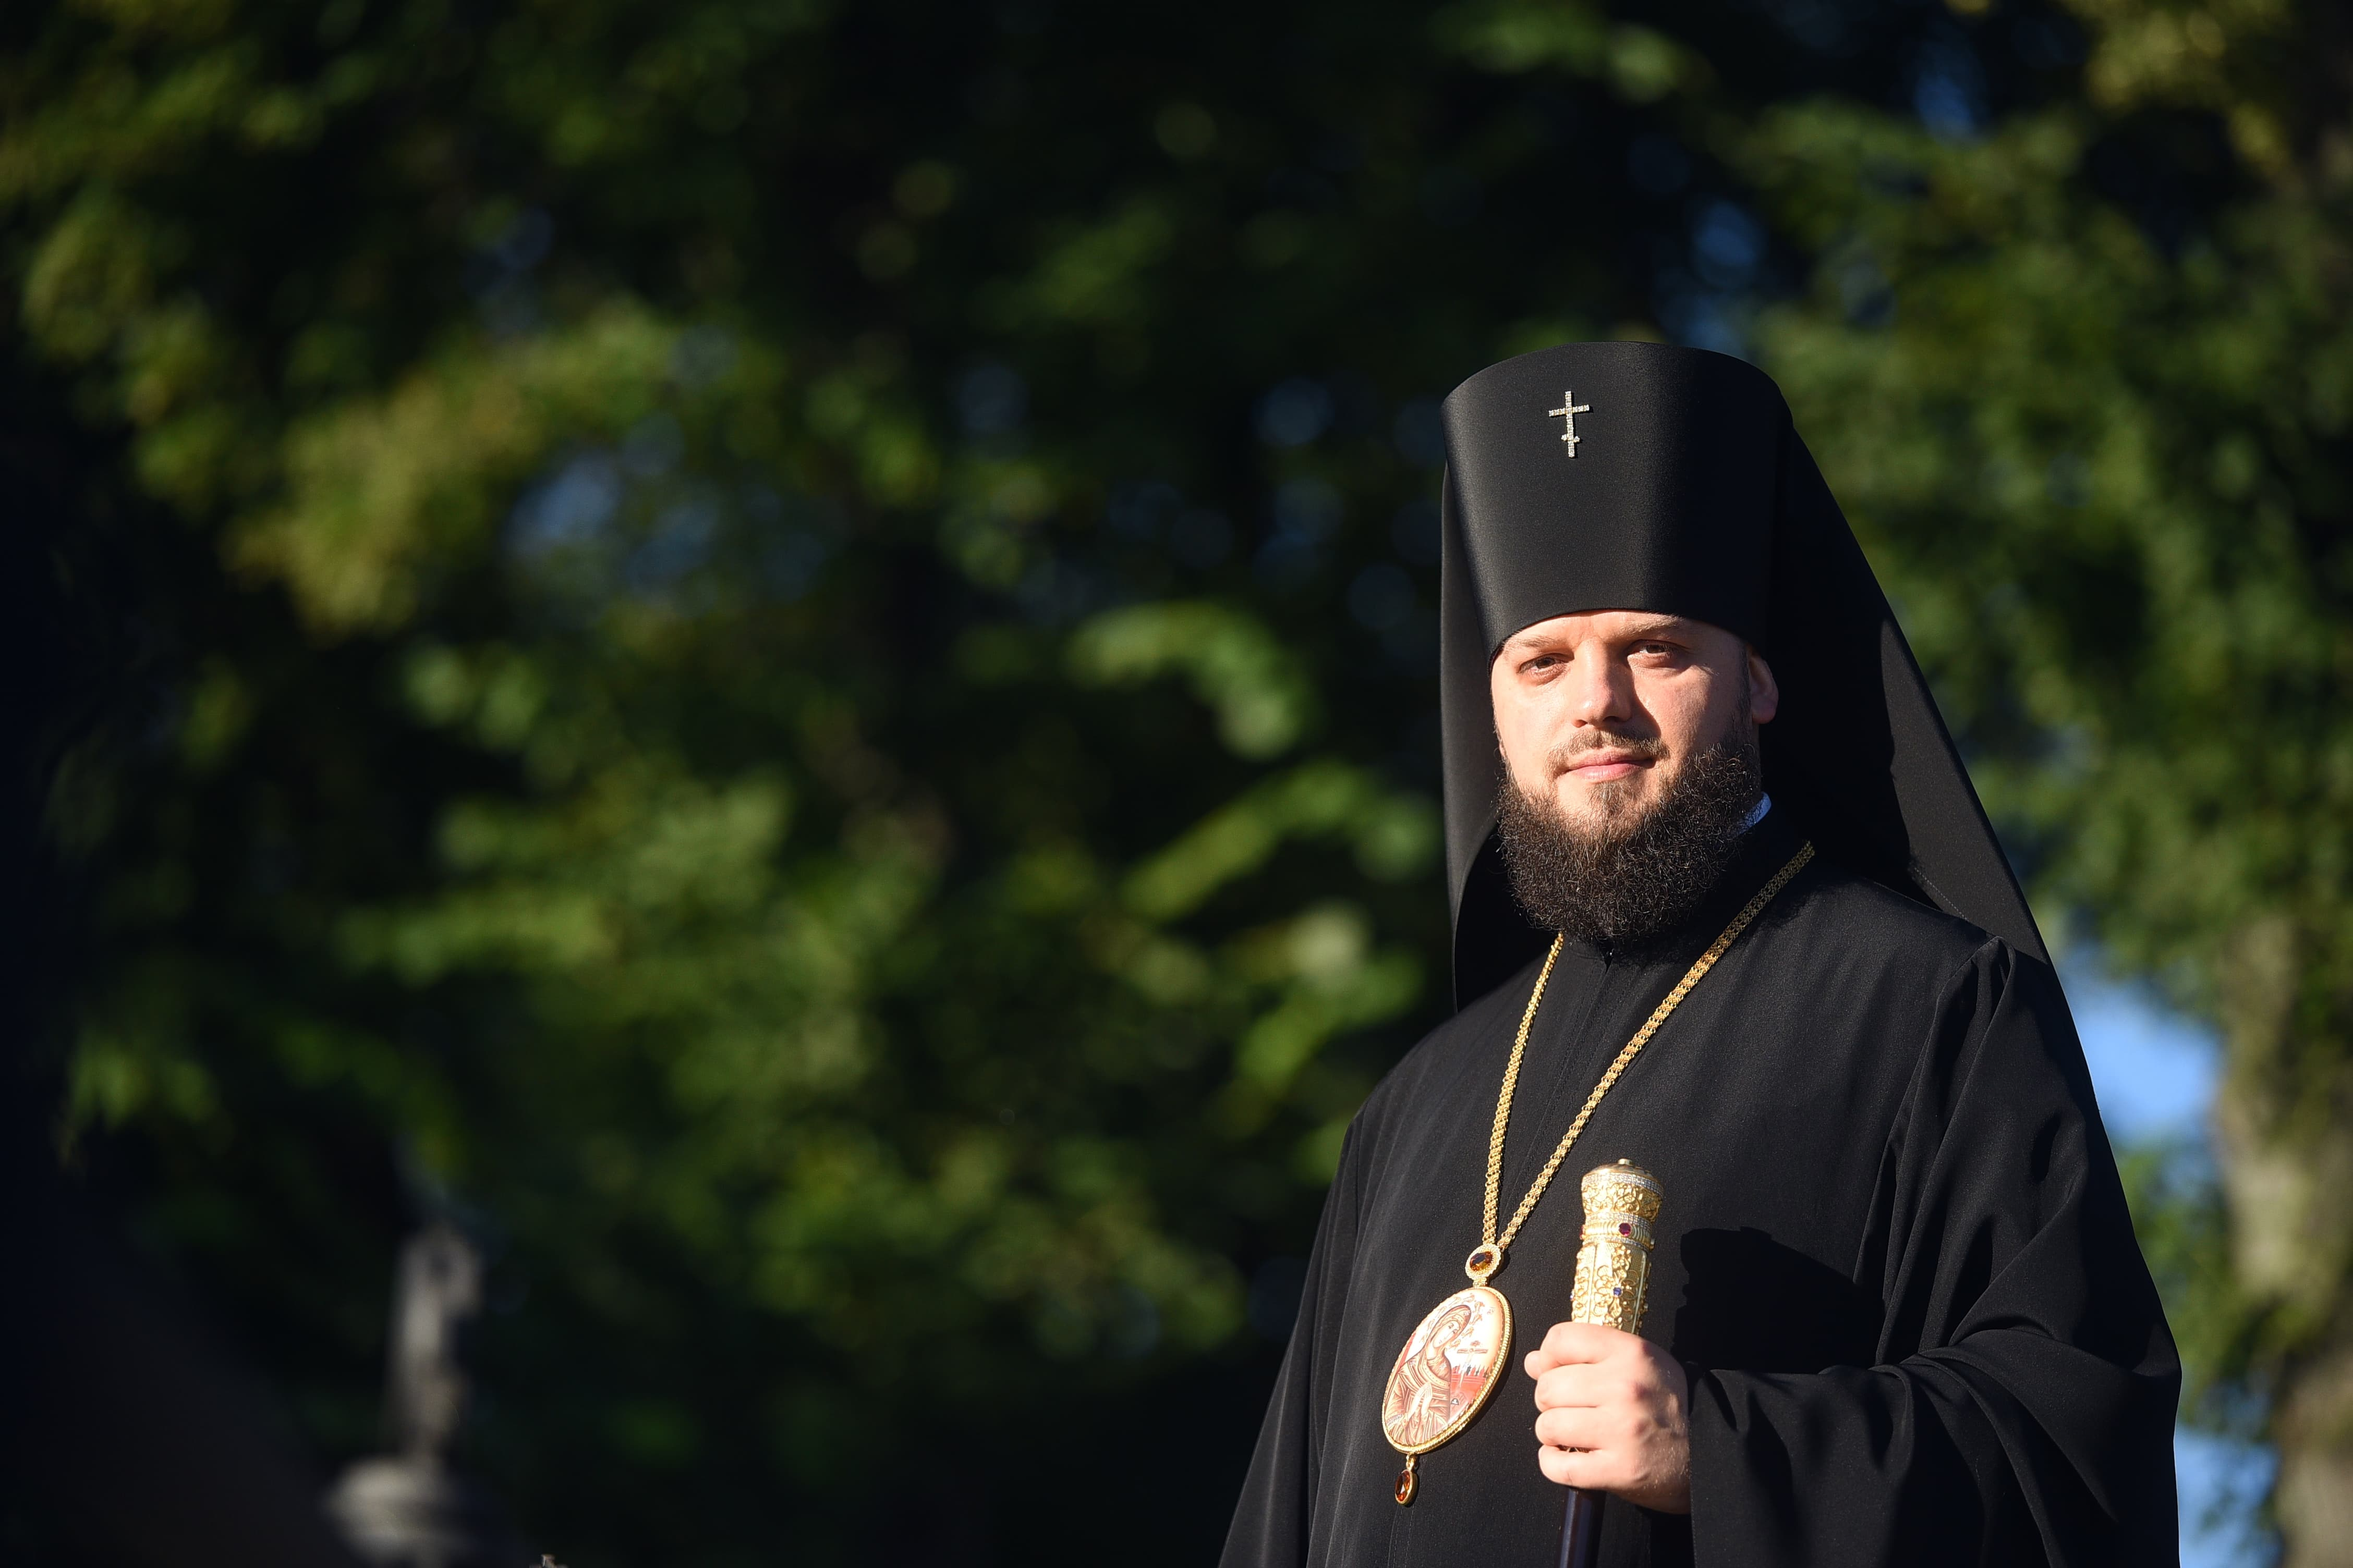
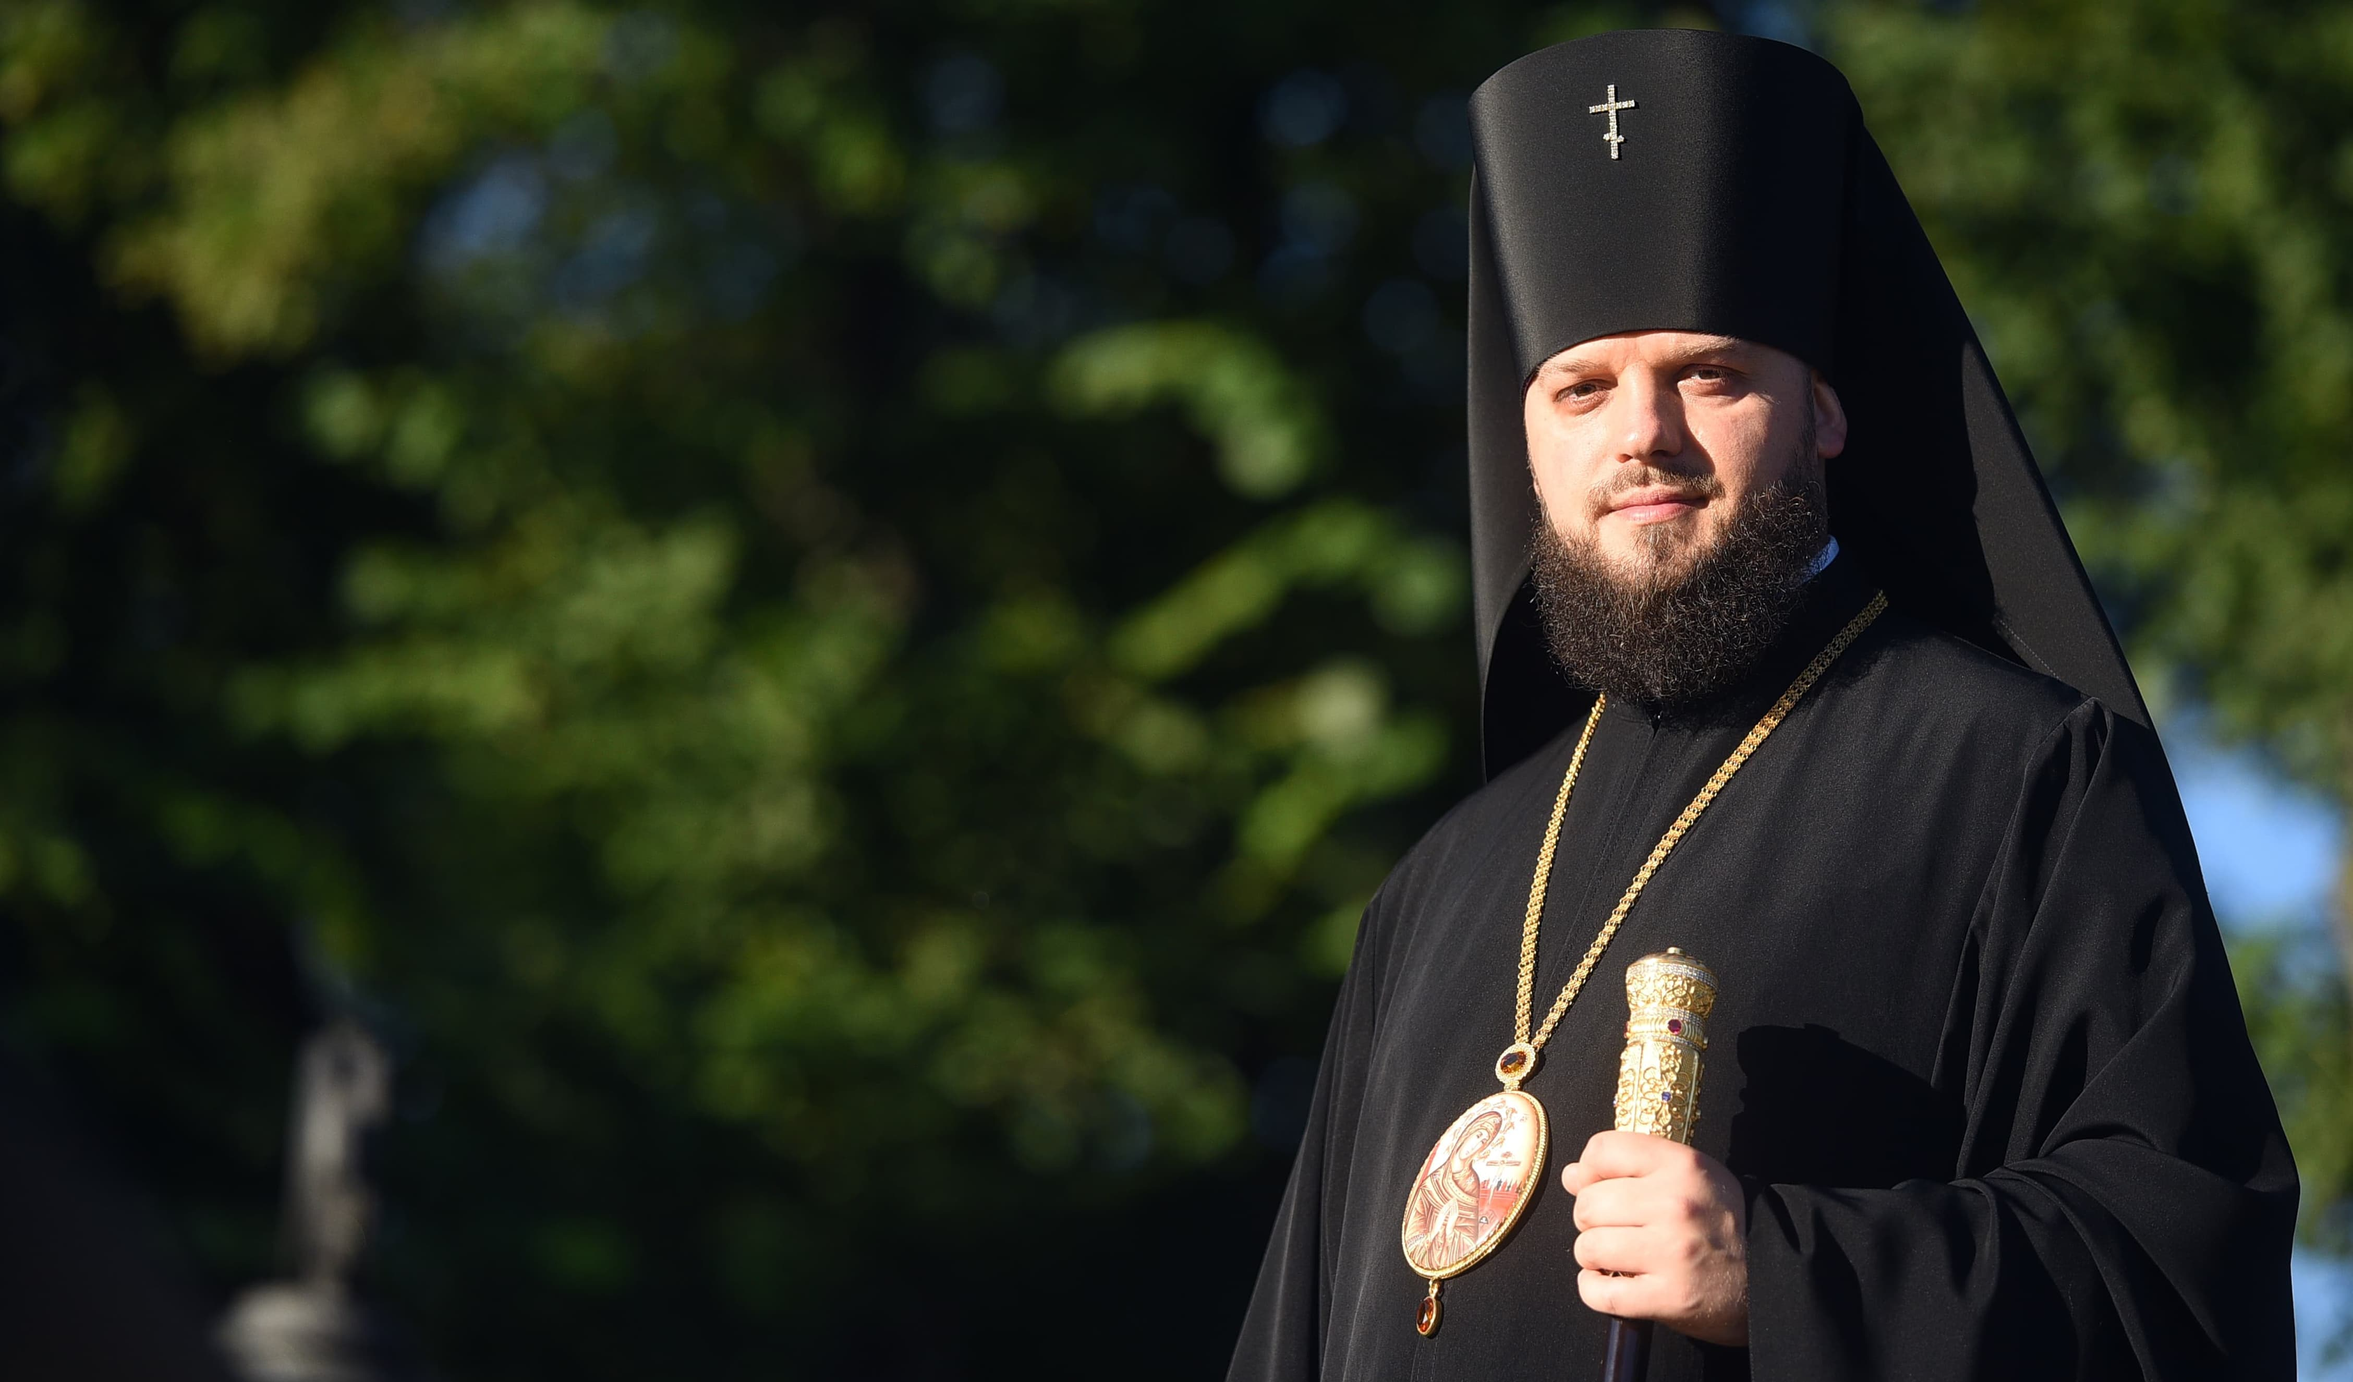
monastery

diff --git a/css/style.css b/css/style.css
@@ -297,11 +297,12 @@ textarea {
 }
 .governor__block {
   display: flex;
-  justify-content: center;
   background-image: url(../images/Agapit.jpg);
   background-size: cover;
   background-repeat: no-repeat;
   height: 740px;
+  padding-left: 86px;
+  padding-bottom: 5px;
 
 }
 .governor__title {
@@ -312,7 +313,7 @@ textarea {
   margin-top: 630px;
   background-color: rgba(33 150 240 / 65%);
   color: #ffffff;
-  width: 1215px;
+  width: 615px;
 }
 .title {
   font-family: Indie Flower;
